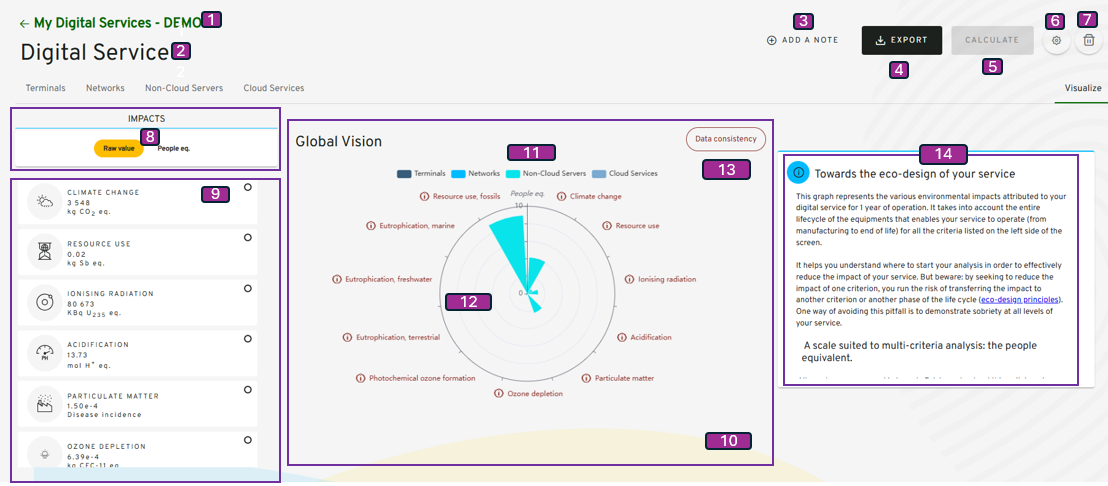
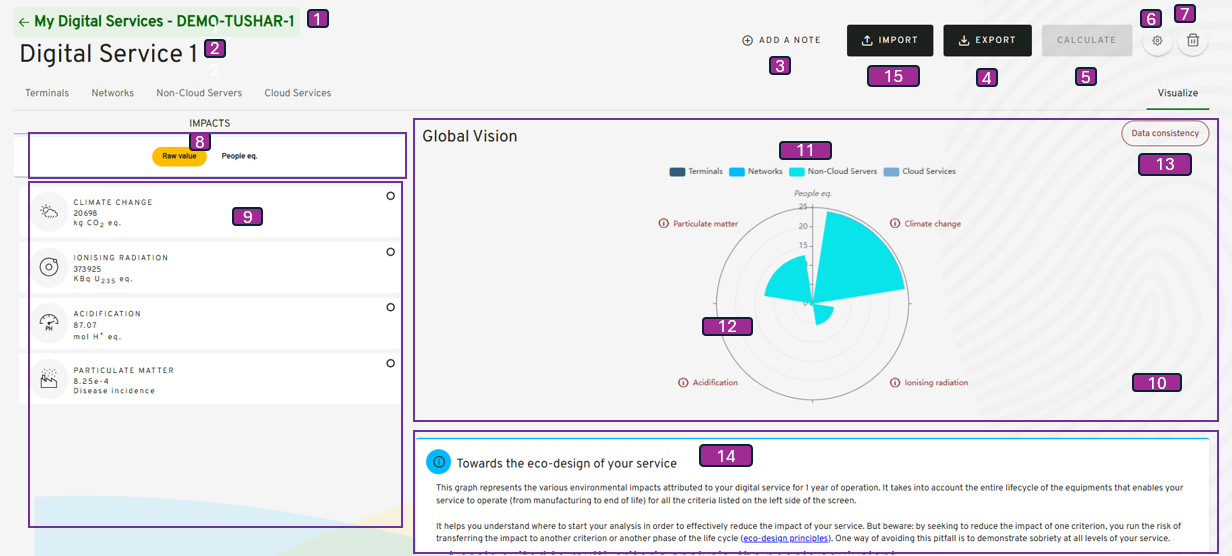
feat(1204): documentation for import

Changed region(s): [[0.0, 0.0, 1.0, 1.0], [0.0, 0.0, 0.2762, 0.1235], [0.5523, 0.679, 0.6137, 0.7099]]

diff --git a/services/documentation/content/2-functional-documentation/use_cases/uc_digital_services/uc5_visualize_footprint/_index.md b/services/documentation/content/2-functional-documentation/use_cases/uc_digital_services/uc5_visualize_footprint/_index.md
@@ -57,7 +57,7 @@ Step8-->|Click on 'Global Vision' button|Step4
 {{% expand title="Show the behavior detail" expanded="false" center="true"%}}
 
 | Reference | Group                      | Elements                                      | Sub-Elements     | Type   | Description                                                                                                                                                                                        |
-| --------- | -------------------------- | --------------------------------------------- | ---------------- | ------ | -------------------------------------------------------------------------------------------------------------------------------------------------------------------------------------------------- |
+|-----------|----------------------------| --------------------------------------------- | ---------------- | ------ |----------------------------------------------------------------------------------------------------------------------------------------------------------------------------------------------------|
 |           | Page Header                |                                               |                  | group  |                                                                                                                                                                                                    |
 | 1         |                            | My Digital Services - (selected organization) |                  | title  | <li><u>_initialization rules_</u>: The title is concatenated with the current organization selected.                                                                                               |
 | 2         |                            | The digital service name                      |                  | label  | <li><u>_initialization rules_</u>: Name of the selected digital service for which the user want to visualize footprints. The type of visualization (Equipment) is also shown.                      |
@@ -74,6 +74,7 @@ Step8-->|Click on 'Global Vision' button|Step4
 | 12        |                            |                                               | Graph            | radar  | <li><u>_action rules_</u>: By overflowing, the user can collect data corresponding to certain terminals, networks and servers. A click on a specific criteria redirects to view by criteria. </li> |
 | 13        |                            |                                               | Data Consistency | button | <li><u>_action rules_</u>: Click to view graph of data consistency for all criteria. See [Global concepts/ Data consistency](../../global_concepts/uc1_dataconsistency.md) </li>                   |
 | 14        | Information card           |                                               |                  | group  | Quick description of what the graph represents.                                                                                                                                                    |
+| 15        |                            | Import                                        |                  | button  | <li><u>_action rules_</u>: Click to Upload files to create cloud services or non-cloud services </li>                                                                                              |
 
 {{% /expand %}}
 
